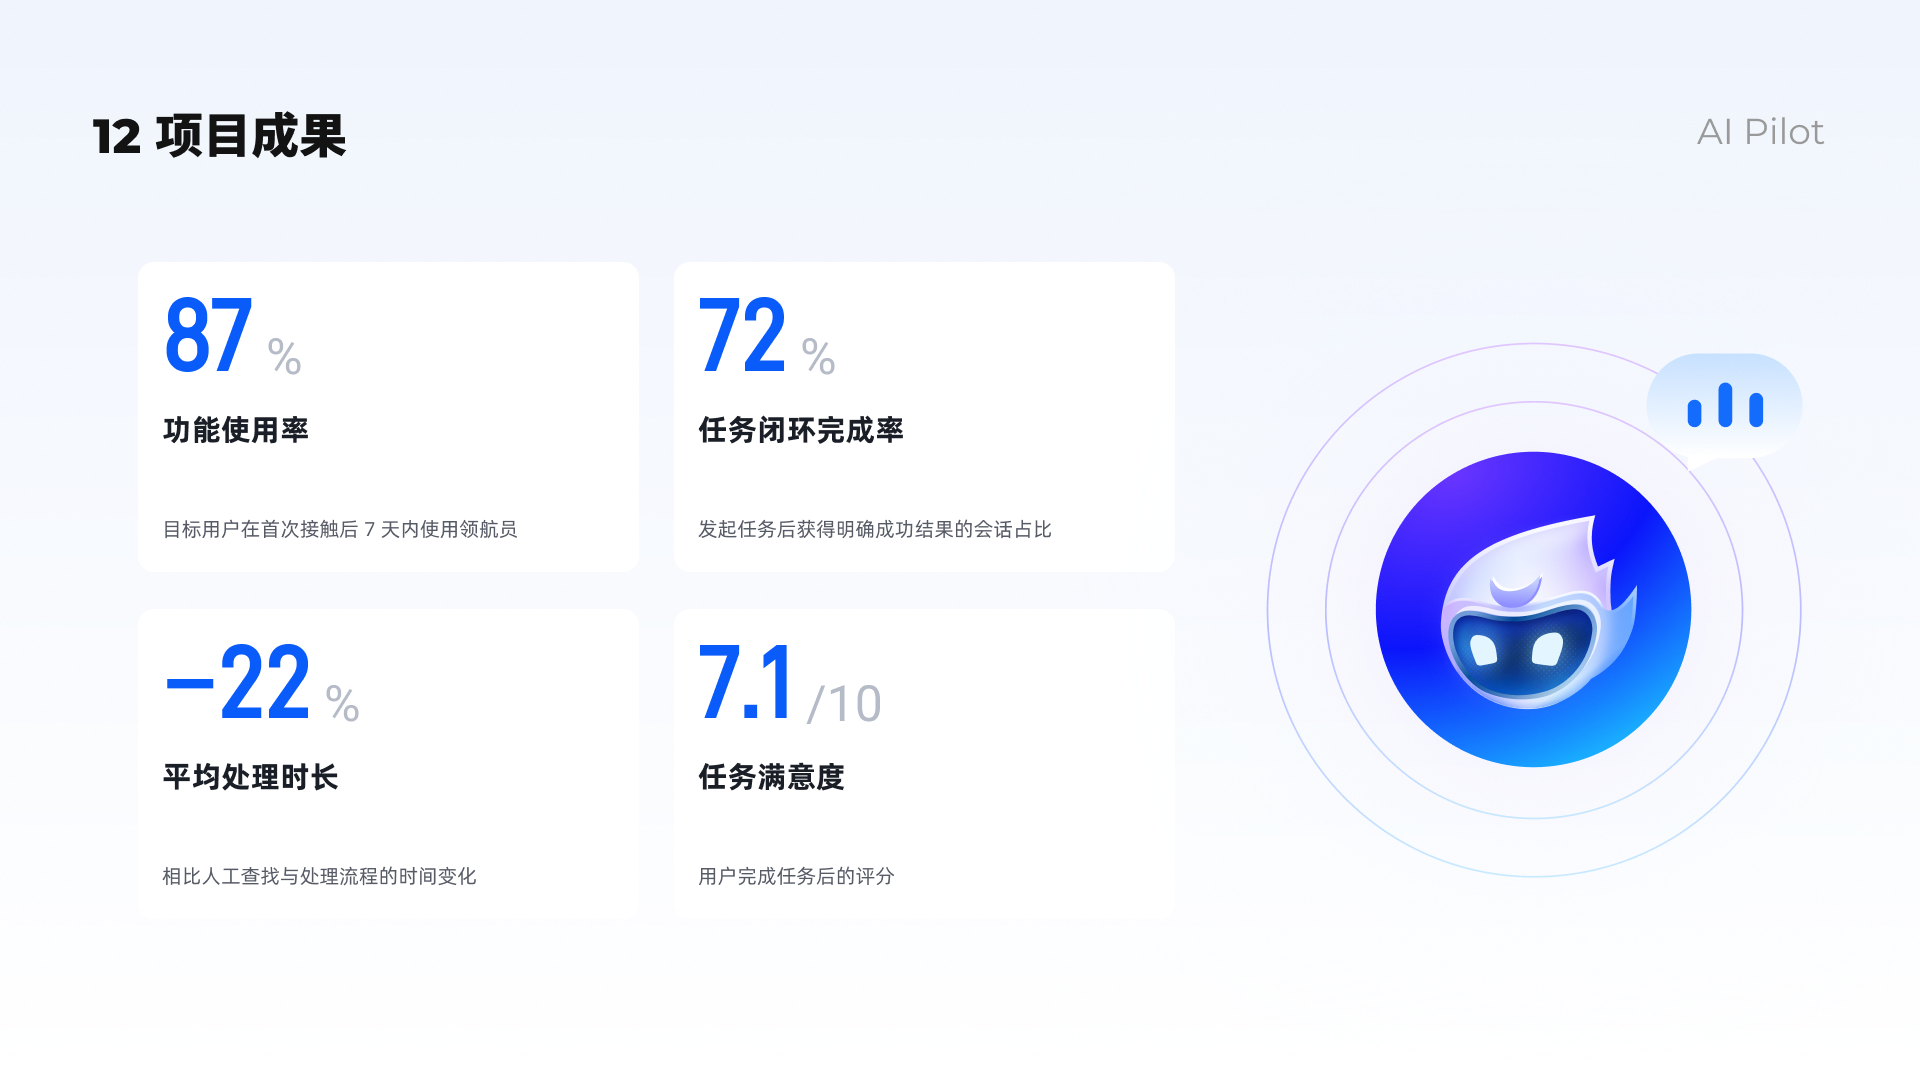
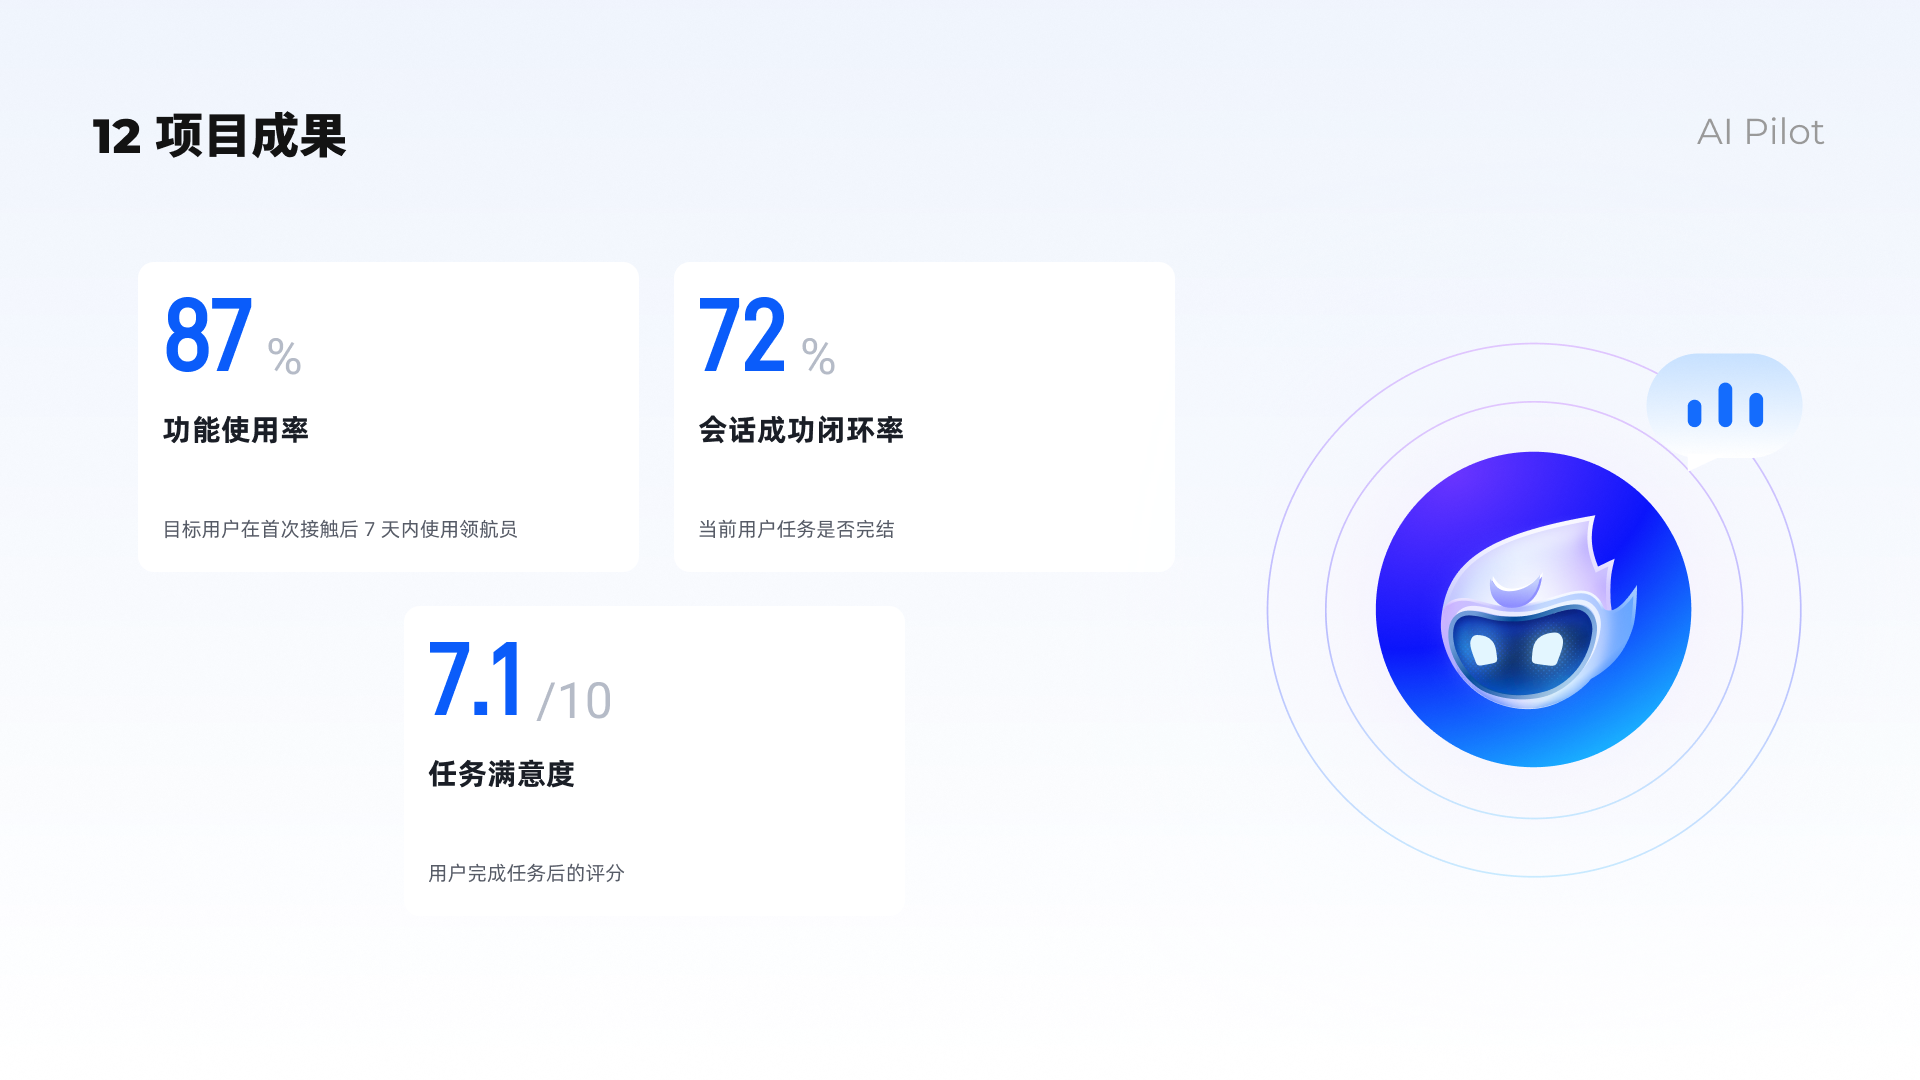
Update AI Pilot results frame 2508:104916 only

diff --git a/ai-pilot.html b/ai-pilot.html
@@ -25,7 +25,7 @@
 <section class="case-panel" aria-label="多形式的富媒体卡片" data-figma-node="2508:104342"><img src="assets/ai-pilot/page-14.webp" width="1920" height="1080" alt="14 · 多形式的富媒体卡片" loading="lazy" decoding="async" ></section>
 <section class="case-panel" aria-label="场景感知的快捷技能" data-figma-node="2508:103604"><img src="assets/ai-pilot/page-15.webp" width="1920" height="1080" alt="15 · 场景感知的快捷技能" loading="lazy" decoding="async" ></section>
 <section class="case-panel" aria-label="B 端 AI 的安全与信任机制设计" data-figma-node="2508:104169"><img src="assets/ai-pilot/page-16.webp" width="1920" height="1080" alt="16 · B 端 AI 的安全与信任机制设计" loading="lazy" decoding="async" ></section>
-<section class="case-panel" aria-label="项目成果" data-figma-node="2508:104916"><img src="assets/ai-pilot/page-17.webp" width="1920" height="1080" alt="17 · 项目成果" loading="lazy" decoding="async" ></section>
+<section class="case-panel" aria-label="项目成果" data-figma-node="2508:104916"><img src="assets/ai-pilot/page-17.webp?v=e1832cca6416" width="1920" height="1080" alt="17 · 项目成果" loading="lazy" decoding="async" ></section>
 </main>
 <footer class="case-footer"><a class="case-link" href="index.html#projects" aria-label="Back to projects"><svg class="case-arrow case-arrow-left" viewBox="0 0 24 24" fill="none" aria-hidden="true"><path d="M12 21V4M4 12l8-8 8 8" stroke="currentColor" stroke-width="3" stroke-linecap="square" stroke-linejoin="miter"/></svg>Back</a><span>© 2026 Emma Wang</span><a class="case-link" href="#top">Back to top <svg class="case-arrow" viewBox="0 0 24 24" fill="none" aria-hidden="true"><path d="M12 21V4M4 12l8-8 8 8" stroke="currentColor" stroke-width="3" stroke-linecap="square" stroke-linejoin="miter"/></svg></a></footer>
 <script src="ai-pilot.js?v=case-mobile-1"></script>
